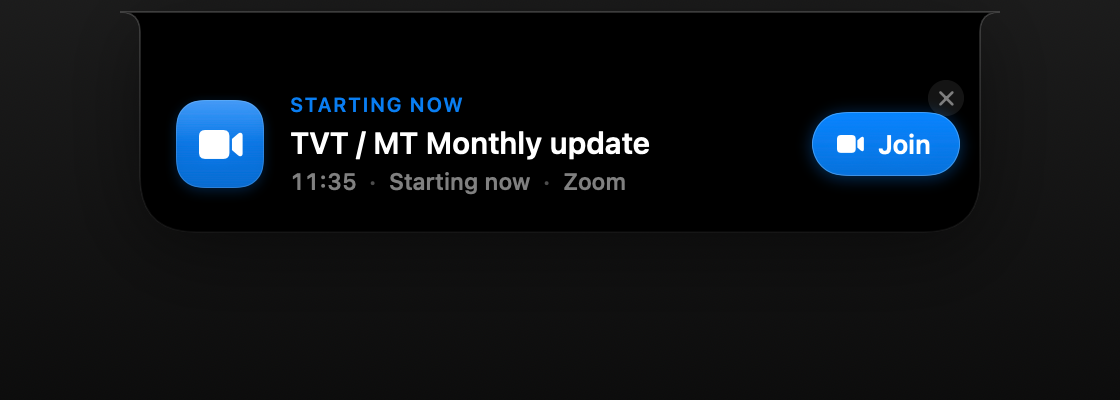
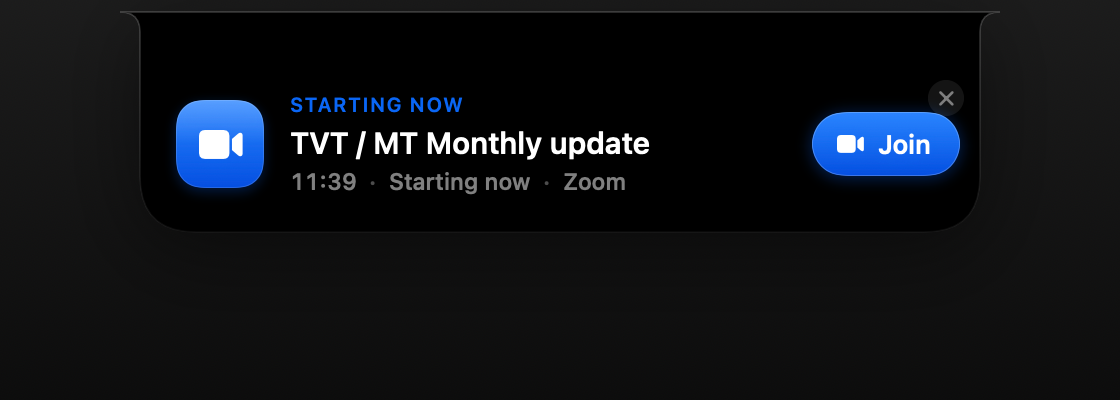
Single fixed brand accent for all meetings; marquee long titles

Changed region(s): [[0.7188, 0.39, 0.875, 0.45], [0.7188, 0.27, 0.875, 0.33], [0.1562, 0.42, 0.2188, 0.48]]

diff --git a/Sources/Adhder/Notch/MarqueeText.swift b/Sources/Adhder/Notch/MarqueeText.swift
@@ -1,0 +1,68 @@
+import SwiftUI
+
+/// Single-line text that gently scrolls horizontally (ping-pong) when it is too
+/// wide for its container, and stays static when it fits.
+struct MarqueeText: View {
+    let text: String
+    var font: Font
+    var color: Color = .white
+    /// Points scrolled per second.
+    var speed: Double = 32
+    /// Pause at each end (baked into the eased motion).
+
+    @State private var textWidth: CGFloat = 0
+    @State private var containerWidth: CGFloat = 0
+    @State private var offset: CGFloat = 0
+
+    private var overflow: CGFloat { max(0, textWidth - containerWidth) }
+
+    var body: some View {
+        // Hidden truncating copy fixes the line height and the container width.
+        Text(text)
+            .font(font)
+            .lineLimit(1)
+            .opacity(0)
+            .frame(maxWidth: .infinity, alignment: .leading)
+            .background(
+                GeometryReader { geo in
+                    Color.clear.preference(key: ContainerWidthKey.self, value: geo.size.width)
+                }
+            )
+            .overlay(alignment: .leading) {
+                Text(text)
+                    .font(font)
+                    .foregroundStyle(color)
+                    .lineLimit(1)
+                    .fixedSize()
+                    .background(
+                        GeometryReader { geo in
+                            Color.clear.preference(key: TextWidthKey.self, value: geo.size.width)
+                        }
+                    )
+                    .offset(x: offset)
+            }
+            .clipped()
+            .onPreferenceChange(ContainerWidthKey.self) { containerWidth = $0; restart() }
+            .onPreferenceChange(TextWidthKey.self) { textWidth = $0; restart() }
+    }
+
+    private func restart() {
+        offset = 0
+        let distance = overflow
+        guard distance > 4 else { return }
+        let duration = Double(distance) / speed
+        withAnimation(.easeInOut(duration: duration).delay(1.1).repeatForever(autoreverses: true)) {
+            offset = -distance - 6
+        }
+    }
+}
+
+private struct TextWidthKey: PreferenceKey {
+    static let defaultValue: CGFloat = 0
+    static func reduce(value: inout CGFloat, nextValue: () -> CGFloat) { value = max(value, nextValue()) }
+}
+
+private struct ContainerWidthKey: PreferenceKey {
+    static let defaultValue: CGFloat = 0
+    static func reduce(value: inout CGFloat, nextValue: () -> CGFloat) { value = max(value, nextValue()) }
+}

diff --git a/Sources/Adhder/Notch/AlertView.swift b/Sources/Adhder/Notch/AlertView.swift
@@ -7,7 +7,7 @@ struct AlertView: View {
     let meeting: MeetingEvent
     var forceVisible: Bool = false
 
-    private var accent: Color { meeting.calendarColor.vividColor }
+    private var accent: Color { Theme.accent }
 
     private var eyebrow: String {
         if meeting.isInProgress { return "Happening now" }
@@ -18,18 +18,17 @@ struct AlertView: View {
 
     var body: some View {
         HStack(spacing: 13) {
-            MeetingGlyph(accent: accent, forceVisible: forceVisible)
+            MeetingGlyph(forceVisible: forceVisible)
 
             VStack(alignment: .leading, spacing: 3) {
                 Text(eyebrow.uppercased())
                     .font(.system(size: 10, weight: .semibold))
                     .tracking(0.6)
-                    .foregroundStyle(accent.opacity(0.95))
+                    .foregroundStyle(accent)
 
-                Text(meeting.title)
-                    .font(.system(size: 15, weight: .semibold))
-                    .foregroundStyle(.white)
-                    .lineLimit(1)
+                MarqueeText(text: meeting.title,
+                            font: .system(size: 15, weight: .semibold),
+                            color: .white)
 
                 HStack(spacing: 6) {
                     Text(meeting.clockTime)
@@ -67,17 +66,12 @@ struct AlertView: View {
                     .padding(.vertical, 8)
                     .background(
                         Capsule()
-                            .fill(
-                                LinearGradient(
-                                    colors: [accent.brightnessScaled(1.18), accent.brightnessScaled(0.86)],
-                                    startPoint: .top, endPoint: .bottom
-                                )
-                            )
+                            .fill(Theme.accentGradient)
                             .overlay(
                                 Capsule().strokeBorder(Color.white.opacity(0.22), lineWidth: 0.5)
                             )
                     )
-                    .shadow(color: accent.opacity(0.35), radius: 4, y: 1)
+                    .shadow(color: Theme.accent.opacity(0.35), radius: 4, y: 1)
                 }
                 .buttonStyle(PressableButtonStyle())
             }

diff --git a/Sources/Adhder/Notch/NotchView.swift b/Sources/Adhder/Notch/NotchView.swift
@@ -172,10 +172,9 @@ private struct PeekView: View {
                     .foregroundStyle(.white.opacity(0.85))
 
                 VStack(alignment: .leading, spacing: 1) {
-                    Text(meeting.title)
-                        .font(.system(size: 12.5, weight: .semibold))
-                        .foregroundStyle(.white)
-                        .lineLimit(1)
+                    MarqueeText(text: meeting.title,
+                                font: .system(size: 12.5, weight: .semibold),
+                                color: .white)
                     Text("\(meeting.clockTime) · \(meeting.relativeStartDescription)")
                         .font(.system(size: 11, weight: .medium))
                         .monospacedDigit()
@@ -194,15 +193,7 @@ private struct PeekView: View {
                             .foregroundStyle(.white)
                             .padding(.horizontal, 11)
                             .padding(.vertical, 5)
-                            .background(
-                                Capsule().fill(
-                                    LinearGradient(
-                                        colors: [meeting.calendarColor.vividColor.brightnessScaled(1.18),
-                                                 meeting.calendarColor.vividColor.brightnessScaled(0.86)],
-                                        startPoint: .top, endPoint: .bottom
-                                    )
-                                )
-                            )
+                            .background(Capsule().fill(Theme.accentGradient))
                     }
                     .buttonStyle(PressableButtonStyle())
                 }

diff --git a/Sources/Adhder/Notch/MeetingGlyph.swift b/Sources/Adhder/Notch/MeetingGlyph.swift
@@ -1,9 +1,8 @@
 import SwiftUI
 
-/// A clean, calm meeting badge: a single calendar-colored squircle with a
-/// glyph and a top-lit sheen. No halos, no pulse rings — restraint over noise.
+/// A clean, calm meeting badge: a single brand-colored squircle with a glyph and
+/// a top-lit sheen. No halos, no pulse rings — restraint over noise.
 struct MeetingGlyph: View {
-    var accent: Color
     var symbol: String = "video.fill"
     var forceVisible: Bool = false
 
@@ -11,12 +10,7 @@ struct MeetingGlyph: View {
 
     var body: some View {
         RoundedRectangle(cornerRadius: 13, style: .continuous)
-            .fill(
-                LinearGradient(
-                    colors: [accent.opacity(0.95), accent.opacity(0.78)],
-                    startPoint: .top, endPoint: .bottom
-                )
-            )
+            .fill(Theme.accentGradient)
             .overlay(
                 // Subtle top sheen for depth.
                 RoundedRectangle(cornerRadius: 13, style: .continuous)
@@ -37,7 +31,7 @@ struct MeetingGlyph: View {
                     .foregroundStyle(.white)
             )
             .frame(width: 44, height: 44)
-            .shadow(color: accent.opacity(0.25), radius: 3, y: 2)
+            .shadow(color: Theme.accent.opacity(0.25), radius: 3, y: 2)
             .scaleEffect(appeared || forceVisible ? 1 : 0.7)
             .opacity(appeared || forceVisible ? 1 : 0)
             .onAppear {

diff --git a/Sources/Adhder/AppDelegate.swift b/Sources/Adhder/AppDelegate.swift
@@ -12,6 +12,7 @@ final class AppDelegate: NSObject, NSApplicationDelegate {
     private var statusItem: NSStatusItem?
     private var cancellables = Set<AnyCancellable>()
     private var signalSource: DispatchSourceSignal?
+    private var longSignalSource: DispatchSourceSignal?
 
     func applicationDidFinishLaunching(_ notification: Notification) {
         calendar.start()
@@ -35,6 +36,7 @@ final class AppDelegate: NSObject, NSApplicationDelegate {
     }
 
     /// Allow firing a test reminder from the terminal: `kill -USR1 <pid>`.
+    /// `kill -USR2 <pid>` fires a long-title sample to demo the marquee.
     private func setupTestSignal() {
         signal(SIGUSR1, SIG_IGN)
         let source = DispatchSource.makeSignalSource(signal: SIGUSR1, queue: .main)
@@ -43,6 +45,14 @@ final class AppDelegate: NSObject, NSApplicationDelegate {
         }
         source.resume()
         signalSource = source
+
+        signal(SIGUSR2, SIG_IGN)
+        let longSource = DispatchSource.makeSignalSource(signal: SIGUSR2, queue: .main)
+        longSource.setEventHandler { [weak self] in
+            self?.notchModel.previewAlert(title: "Weekly Engineering Sync — Roadmap, Incidents & Q3 Planning Review")
+        }
+        longSource.resume()
+        longSignalSource = longSource
     }
 
     private func setupStatusItem() {

diff --git a/Sources/Adhder/Notch/NotchViewModel.swift b/Sources/Adhder/Notch/NotchViewModel.swift
@@ -113,12 +113,17 @@ final class NotchViewModel: ObservableObject {
         }
     }
 
-    /// Manually preview the character (used by the menu "Test reminder" action).
-    func previewAlert() {
-        let sample = calendar.nextMeeting ?? MeetingEvent(
+    /// Manually preview the alert (used by the menu "Test reminder" action).
+    /// Pass a title to force a specific sample (e.g. to demo the marquee).
+    func previewAlert(title customTitle: String? = nil) {
+        if customTitle == nil, let next = calendar.nextMeeting {
+            triggerAlert(for: next)
+            return
+        }
+        let sample = MeetingEvent(
             id: "preview",
-            title: "Design sync",
-            startDate: Date().addingTimeInterval(120),
+            title: customTitle ?? "Design sync",
+            startDate: Date().addingTimeInterval(45),
             endDate: Date().addingTimeInterval(1800),
             location: "Zoom",
             organizer: "You",

diff --git a/Sources/Adhder/Notch/Theme.swift b/Sources/Adhder/Notch/Theme.swift
@@ -1,0 +1,17 @@
+import SwiftUI
+
+/// A single source of truth for the app accent so every meeting looks identical —
+/// a deep, saturated blue (not a washed-out pastel) and its glossy gradient.
+enum Theme {
+    /// Solid base accent (#0A66F5-ish): saturated, mid brightness, reads strong on black.
+    static let accent = Color(red: 0.04, green: 0.40, blue: 0.96)
+
+    /// Glossy capsule/badge gradient: a touch lighter on top, deeper at the bottom —
+    /// never bright enough to look pastel.
+    static let accentGradient = LinearGradient(
+        colors: [Color(red: 0.16, green: 0.52, blue: 1.0),
+                 Color(red: 0.02, green: 0.31, blue: 0.88)],
+        startPoint: .top,
+        endPoint: .bottom
+    )
+}

diff --git a/Sources/Adhder/RenderMode.swift b/Sources/Adhder/RenderMode.swift
@@ -132,15 +132,7 @@ private struct PeekContent: View {
                 .foregroundStyle(.white)
                 .padding(.horizontal, 11)
                 .padding(.vertical, 5)
-                .background(
-                    Capsule().fill(
-                        LinearGradient(
-                            colors: [meeting.calendarColor.vividColor.brightnessScaled(1.18),
-                                     meeting.calendarColor.vividColor.brightnessScaled(0.86)],
-                            startPoint: .top, endPoint: .bottom
-                        )
-                    )
-                )
+                .background(Capsule().fill(Theme.accentGradient))
         }
     }
 }
